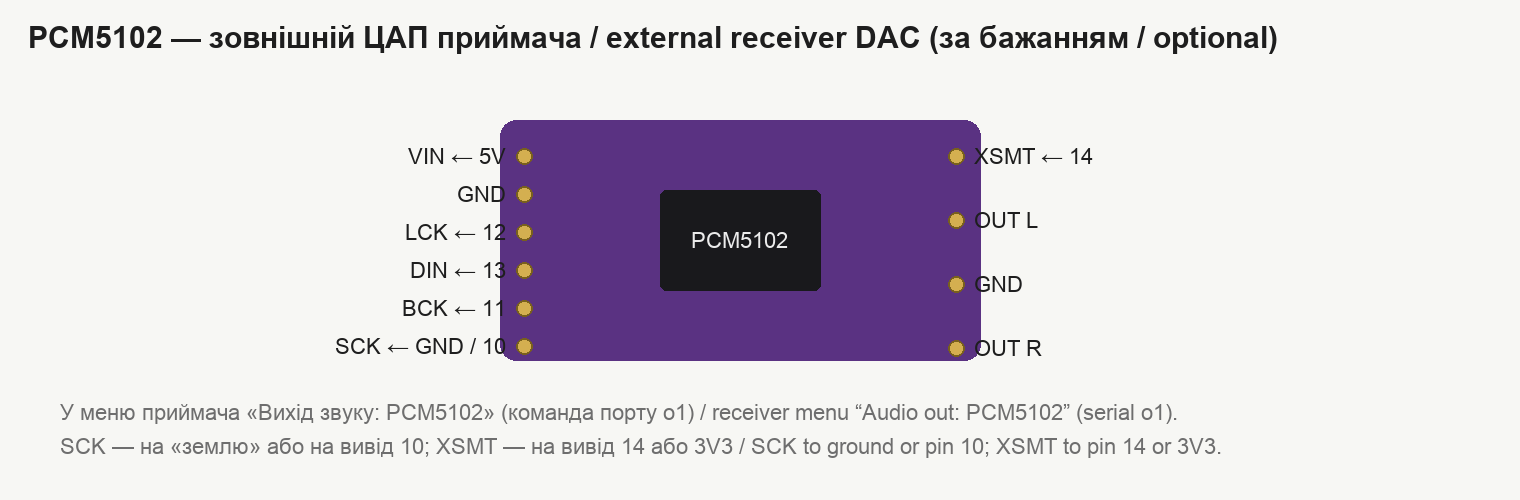
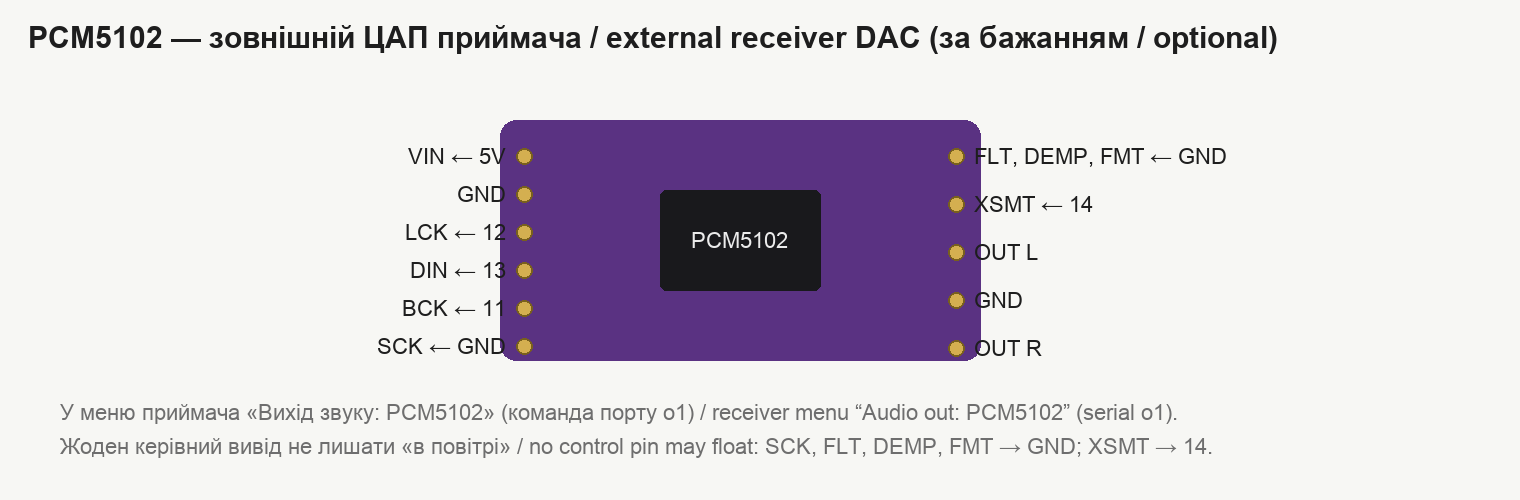
2.39: PCM5102 output as a plain 3-wire I2S (16 bit, no master clock), one-channel bug of 2.38 fixed, on-board I2S capture (n8=9); docs: module control pins must not float

diff --git a/hearlink/rxaudio.h b/hearlink/rxaudio.h
@@ -70,6 +70,7 @@ static void rxEarStart(bool on) {
   rxEarTest = on;
 }
 static volatile uint16_t rxVuL, rxVuR;     // наибольший отсчёт левого и правого канала с прошлого чтения экраном (стрелки)
+static volatile bool rxPattern;           // проверка n8=9: на выход идут постоянные числа (левый 0x5A01, правый 0xA5F3)
 static volatile uint32_t rxLimBusy;        // сколько отсчётов ограничитель убавлял звук (обнуляет проверка n8=8)
 static volatile float rxLimLow = 1;       // наименьшее усиление ограничителя за это время
 static volatile uint32_t rxInSamples, rxOutSamples;   // сколько отсчётов принято из эфира и отдано на выход (замер настоящих частот, n8=8)
@@ -294,11 +295,18 @@ static bool rxOutBegin() {
     sc.clk_cfg.clk_src = I2S_CLK_SRC_DEFAULT;
     sc.clk_cfg.mclk_multiple = I2S_MCLK_MULTIPLE_256;
     sc.slot_cfg = I2S_STD_PHILIPS_SLOT_DEFAULT_CONFIG(I2S_DATA_BIT_WIDTH_16BIT, I2S_SLOT_MODE_STEREO);
-    // Главный такт (SCK микросхемы) — на выводе 10: 256 × 32 кГц = 8,192 МГц. Владелец 08.10: «может сигнал sck не
-    // подключать на землю, а использовать полноценно?» — да: с настоящим тактом ЦАП не зависит от своего умножителя,
-    // которому при SCK «на земле» приходится восстанавливать такт из BCK (1,024 МГц — у самого нижнего края того, что
-    // он умеет). Если на модуле SCK уже замкнут на «землю» перемычкой, вывод 10 к нему НЕ подключать (замыкание выхода).
-    sc.gpio_cfg.mclk = (gpio_num_t)PIN_I2S_MCLK;
+    // SCK микросхемы — как в проекте радио владельца, где этот же модуль «работает напрямую с наушниками на полную и
+    // все идеально»: на «земле». Тогда ЦАП сам восстанавливает главный такт из BCK и сам его «чистит». В 2.35–2.37 на
+    // вывод 10 шёл главный такт с процессора (8,192 МГц с дробного делителя — его периоды неровные); это было главное
+    // отличие от радио, а звук хрипел (владелец 08.10: «звук рыпит и хрипит, сравни как в РАДИО»). Теперь вывод 10
+    // просто держится в нуле:
+    // это «земля» для SCK, провод можно оставить на нём или переставить на GND — разницы нет.
+    sc.gpio_cfg.mclk = I2S_GPIO_UNUSED;
+    pinMode(PIN_I2S_MCLK, OUTPUT);
+    digitalWrite(PIN_I2S_MCLK, LOW);
+    gpio_input_enable((gpio_num_t)PIN_I2S_MCLK);
+    // Слово канала — 16 тактов (BCK = 32 × 32 кГц = 1,024 МГц), как в радио. В 2.38 я поставил 32 такта на слово, не
+    // поправив длину сигнала каналов (ws_width осталась 16) — у владельца «работает только один канал». Возвращено.
     sc.gpio_cfg.bclk = (gpio_num_t)PIN_I2S_BCK;
     sc.gpio_cfg.ws = (gpio_num_t)PIN_I2S_WS;
     sc.gpio_cfg.dout = (gpio_num_t)PIN_I2S_DOUT;
@@ -799,6 +807,10 @@ static void rxTask(void *) {
       }
       out[2 * i] = (int16_t)(ol > 32767 ? 32767 : ol < -32768 ? -32768 : ol);
       out[2 * i + 1] = (int16_t)(orr > 32767 ? 32767 : orr < -32768 ? -32768 : orr);
+      if (rxPattern) {   // известные числа — чтобы на выводах было видно, какой бит где стоит
+        out[2 * i] = (int16_t)0x5A01;
+        out[2 * i + 1] = (int16_t)0xA5F3;
+      }
     }
     rxPeak = pk > 32767 ? 32767 : pk;
     if (pk > 300 && !(rxFlags & FLAG_MUTE)) rxSoundMs = millis() ? millis() : 1;   // −40 дБ и громче — «в эфире звук»

diff --git a/tools/gen_schema.py b/tools/gen_schema.py
@@ -409,10 +409,12 @@ def receiver_pcm5102():
         line([(300, y), (520, y)], c, 3 if c == ORG else 2.5)
     text(410, 212, 'звук цифрой (I2S)', 12, 'middle', ORG)
     text(410, 332, '«звук включён»', 12, 'middle', GRN)
-    pin(520, 385, 'SCK', 'l')
-    line([(520, 385), (470, 385)])
-    gnd(470, 385)
-    text(458, 379, 'на «землю»', 12, 'end', '#555')
+    for i, nm in enumerate(('SCK', 'FLT', 'DEMP', 'FMT')):
+        y = 375 + i * 22 if False else 372 + i * 11
+    pin(520, 380, 'SCK, FLT, DEMP, FMT', 'l')
+    line([(520, 380), (470, 380)])
+    gnd(470, 380)
+    text(458, 374, 'все четыре — на «землю»', 12, 'end', '#555')
     # выход ЦАП
     for y, nm in ((150, 'L'), (194, 'G'), (238, 'R')):
         pin(770, y, nm, 'r')
@@ -430,7 +432,7 @@ def receiver_pcm5102():
     notes = [
         ('Порядок', True),
         ('1. Наушники с выводов %s и %s (прежнее прямое подключение) снять — в этом режиме они молчат.' % (p['outp'], p['outn']), False),
-        ('2. Собрать шесть проводов по схеме, SCK модуля — на «землю». Проверить, потом подать питание.', False),
+        ('2. Собрать по схеме. SCK, FLT, DEMP, FMT модуля — на «землю» (GND или вывод G на гребёнке модуля). Проверить, подать питание.', False),
         ('3. В меню приёмника: «Вихід звуку» → PCM5102 (плата перезапустится). С порта — команда o1.', False),
         ('', False),
         ('XSMT — «звук включён»', True),
@@ -439,9 +441,9 @@ def receiver_pcm5102():
         ('• Если перемычка H3L на обороте модуля уже запаяна на «H» — провод от XSMT к выводу 14 НЕ ставить.', False),
         ('• Можно и без вывода 14: XSMT на 3V3 — звук включён всегда.', False),
         ('', False),
-        ('SCK и питание', True),
-        ('• SCK — на «землю»: ЦАП сам восстанавливает такт из BCK. Вместо «земли» можно на вывод 10 (такт 8,192 МГц, версия 2.35+).', False),
-        ('  «В воздухе» SCK оставлять нельзя. Если на модуле SCK уже замкнут на «землю» каплей припоя — вывод 10 к нему не подключать.', False),
+        ('SCK, FLT, DEMP, FMT и питание', True),
+        ('• SCK — на «землю»: ЦАП сам восстанавливает главный такт из BCK. Вместо GND годится вывод 10 приёмника — на нём ноль.', False),
+        ('• FLT, DEMP, FMT — на «землю», если перемычки H1L, H2L, H4L на обороте модуля не запаяны: иначе ЦАП хрипит и трещит.', False),
         ('• VIN: на плате модуля свой стабилизатор 3,3 В, поэтому питание — 5 В (вывод 5V платы приёмника).', False),
         ('', False),
         ('Выход', True),

diff --git a/tools/gen_modules.py b/tools/gen_modules.py
@@ -107,9 +107,9 @@ small('max', 'MAX97220 — підсилювач навушників / headphone
       ['Різницевий вхід: «+» на L+ і R+, «−» на L− і R−; у меню приймача «Виводи: протифаза».',
        'Differential input: “+” to L+ and R+, “−” to L− and R−; receiver menu “Pins: antiphase”.'], 'mod-max97220.png')
 small('pcm5102', 'PCM5102 — зовнішній ЦАП приймача / external receiver DAC (за бажанням / optional)', PURPLE, 'PCM5102',
-      ['VIN ← 5V', 'GND', 'LCK ← 12', 'DIN ← 13', 'BCK ← 11', 'SCK ← GND / 10'], ['XSMT ← 14', 'OUT L', 'GND', 'OUT R'],
+      ['VIN ← 5V', 'GND', 'LCK ← 12', 'DIN ← 13', 'BCK ← 11', 'SCK ← GND'], ['FLT, DEMP, FMT ← GND', 'XSMT ← 14', 'OUT L', 'GND', 'OUT R'],
       ['У меню приймача «Вихід звуку: PCM5102» (команда порту o1) / receiver menu “Audio out: PCM5102” (serial o1).',
-       'SCK — на «землю» або на вивід 10; XSMT — на вивід 14 або 3V3 / SCK to ground or pin 10; XSMT to pin 14 or 3V3.'], 'mod-pcm5102.png')
+       'Жоден керівний вивід не лишати «в повітрі» / no control pin may float: SCK, FLT, DEMP, FMT → GND; XSMT → 14.'], 'mod-pcm5102.png')
 small('pcm1808', 'PCM1808 — зовнішній АЦП передавача / external transmitter ADC (за бажанням, не перевірено / optional, untested)', PURPLE, 'PCM1808',
       ['LIN', 'GND', 'RIN'], ['5V / 3V3', 'GND', 'SCK ← IO43', 'BCK ← IO1', 'LRC ← IO2', 'OUT → IO40', 'FMT, MD → GND'],
       ['На передавачі: «Звук» → «Вхід: PCM1808» (команда порту a1). Поки він працює, передавач не друкує в порт.',

diff --git a/hearlink/config.h b/hearlink/config.h
@@ -2,7 +2,7 @@
 #pragma once
 #include <Arduino.h>
 
-#define FW_VERSION "2.37"
+#define FW_VERSION "2.39"
 #define SRATE 32000        // отсчётов звука в секунду
 #define FRAME 64        // отсчётов в одном куске звука (2 мс); пакет набирается из 1–6 кусков — см. качество
 #define MAGIC 0x4C48    // «HL» — по этим байтам свои пакеты отличаются от чужих

diff --git a/docs/uk/hardware.md b/docs/uk/hardware.md
@@ -71,7 +71,7 @@
 | Ручка: A (TRA), B (TRB), кнопка (PSH) | 5, 6, 7 |
 | Кнопки модуля CON, BAK (не використовуються, підтягнуті) | 15, 16 |
 | Вихід звуку «+», «−» (однобітний PDM) | 17, 18 |
-| PCM5102: SCK (головний такт 8,192 МГц), BCK, LCK, DIN, XSMT | 10, 11, 12, 13, 14 |
+| PCM5102: BCK, LCK, DIN, XSMT; SCK — на GND (або на вивід 10, там нуль) | 11, 12, 13, 14 |
 | Кольоровий світлодіод плати (WS2812) | 48 (у нових плат — 38) |
 
 ### Передавач на модулі ESP32-4848S040
@@ -118,39 +118,47 @@ C1 1 мкФ відділяє постійну складову, C2 4,7 нФ зр
 
 ## Зовнішній ЦАП PCM5102 на приймачі
 
-| Модуль PCM5102 | Плата приймача |
-|---|---|
-| VIN | 5V |
-| GND | GND |
-| SCK | **GND** (так само, як у більшості схем із цим модулем) або вивід **10** — головний такт 8,192 МГц (з версії 2.35) |
-| XSMT | **14** — «звук увімкнено» (з версії 2.36) або 3V3 |
-| BCK | 11 |
-| LCK (LRCK) | 12 |
-| DIN | 13 |
+Модуль — фіолетова плата GY-PCM5102 (PCM5102A, два стабілізатори 3,3 В, гніздо 3,5 мм; на виходах послідовно по
+470 Ом — тому навушники можна вмикати просто в гніздо).
+
+| Вивід модуля | Куди | Навіщо |
+|---|---|---|
+| VIN | 5V приймача | живлення (на модулі свої стабілізатори 3,3 В) |
+| GND | GND | |
+| BCK | **11** | такт бітів, 1,024 МГц |
+| LCK (LRCK) | **12** | такт каналів, 32 кГц |
+| DIN | **13** | дані I2S, 16 біт |
+| SCK | **GND** (або вивід 10 — приймач тримає на ньому нуль) | головний такт не подається: ЦАП відновлює його з BCK сам |
+| XSMT | **14** (або 3V3) | «звук увімкнено»: приймач тримає високий рівень, поки вихід працює |
+| FLT | **GND** | звичайний цифровий фільтр |
+| DEMP | **GND** | корекцію передспотворень вимкнено |
+| FMT | **GND** | формат I2S |
 
 ![Приймач із PCM5102](../skhema-priemnik-s3-pcm5102.png)
 
+**Головне — жоден керівний вивід мікросхеми не має «висіти в повітрі».** За схемою модуля чотири виводи (FLT, DEMP,
+XSMT, FMT) задаються перемичками H1L–H4L на звороті, і зазвичай модуль приходить із запаяними: H1L → L, H2L → L,
+H3L → H, H4L → L; SCK замкнений на «землю» краплею припою біля виводу. **Трапляються модулі з незапаяними
+перемичками** — тоді ці входи нічим не задані (внутрішніх підтяжок у мікросхеми немає), і ЦАП або мовчить (XSMT),
+або хрипить і тріщить (FMT, FLT, DEMP ловлять наведення від сусідніх ліній). Ліки без паяння — дроти з гребінки
+модуля: FLT, DEMP і FMT на сусідній вивід AGND (G) тієї ж гребінки, XSMT — на вивід 14 приймача. Або запаяти
+перемички, як у таблиці.
+
+| Перемичка | Вивід ЦАП | Що задає | Як має бути | Якщо інакше |
+|---|---|---|---|---|
+| H1L | FLT | цифровий фільтр | **L** | H — фільтр із малою затримкою; «в повітрі» — клацання |
+| H2L | DEMP | корекція передспотворень 44,1 кГц | **L** | H — зрізані верхи |
+| H3L | XSMT | приглушення | **H** | L або «в повітрі» — тиша |
+| H4L | FMT | формат даних | **L** (I2S) | H — інший формат: гучний шум замість звуку; «в повітрі» — хрип |
+
+- Якщо перемичку H3L запаяно на «H» — вивід 14 до XSMT **не під'єднувати**; якщо SCK на модулі вже замкнений на
+  «землю» — нікуди його більше не вести.
 - У меню приймача: «Вихід звуку» → **PCM5102** (плата перезапуститься); з порту — `o1`. Навушники з виводів 17/18
   у цьому режимі мовчать.
-- **SCK**: на «землю» (ЦАП відновлює такт із BCK сам і сам його «чистить» — це перевірений варіант) або на
-  вивід 10. Якщо на модулі SCK уже замкнений на «землю» краплею припою — вивід 10 до нього **не під'єднувати**.
-  «У повітрі» SCK лишати не можна: ЦАП мовчить.
-- **XSMT («звук увімкнено»).** На деяких модулях GY-PCM5102 перемички на звороті приходять незапаяними — тоді
-  XSMT «висить у повітрі» і ЦАП мовчить, хоча всі сигнали йдуть (перевірено 08.10.2026). Паяти не обов'язково:
-  з версії 2.36 приймач сам тримає на виводі **14** високий рівень, поки вихід працює, і знімає його перед сном —
-  досить дроту від виводу XSMT модуля до виводу 14 (або до 3V3). Якщо перемичку H3L уже запаяно на «H», вивід 14
-  до XSMT **не під'єднувати**.
-- Решта перемичок (кожна — три площадки: середня і «L» / «H») для надійності теж варто запаяти:
-
-  | Перемичка | Вивід ЦАП | Що задає | Як запаяти | Пояснення |
-  |---|---|---|---|---|
-  | H1L | FLT | цифровий фільтр | **L** | звичайний фільтр із лінійною фазою; H — із малою затримкою |
-  | H2L | DEMP | корекція передспотворень | **L** | вимкнено; H — лише для старих записів 44,1 кГц |
-  | H3L | XSMT | приглушення | **H** | звук увімкнено; на L або «в повітрі» — тиша |
-  | H4L | FMT | формат даних | **L** | I2S (так шле приймач); H — інший формат, звук буде спотворений |
-- Перевірка без приладів: команда порту `n8=7` друкує, чи «тремтять» виводи 10–13 (частка одиниць близько 50 %).
-  На передавачі в списку приймачів — «вихід живий».
-- Навушники можна вмикати прямо в гніздо модуля; більший запас гучності дає підсилювач MAX97220 після ЦАП.
+- Що саме йде на ЦАП, приймач показує сам: `n8=7` — чи «тремтять» BCK, LRCK і дані, рівні SCK та XSMT; `n8=9` —
+  знімає сигнали з виводів і друкує біти одного слова (перевірка формату).
+- Документація: [PCM5102A, Texas Instruments](https://www.ti.com/lit/ds/symlink/pcm5102a.pdf) — режим без головного
+  такту (розділ 9.3.5.3, таблиця 11: 32 кГц при BCK 1,024 або 2,048 МГц), вхід XSMT (9.3.3).
 
 ## Два способи під'єднати навушники
 

diff --git a/docs/en/hardware.md b/docs/en/hardware.md
@@ -73,7 +73,7 @@ easy to find by name: “ESP32-4848S040”, “SH1106 1.3 OLED EC11”, “MAX97
 | Knob: A (TRA), B (TRB), button (PSH) | 5, 6, 7 |
 | Module buttons CON, BAK (not used, pulled up) | 15, 16 |
 | Audio output "+", "−" (one-bit PDM) | 17, 18 |
-| PCM5102: SCK (master clock 8.192 MHz), BCK, LCK, DIN, XSMT | 10, 11, 12, 13, 14 |
+| PCM5102: BCK, LCK, DIN, XSMT; SCK — to GND (or to pin 10, held low) | 11, 12, 13, 14 |
 | On-board RGB LED (WS2812) | 48 (38 on newer boards) |
 
 ### Transmitter on the ESP32-4848S040 module
@@ -120,39 +120,47 @@ The schematics are drawn by `tools/gen_schema.py`; they are also available as SV
 
 ## External PCM5102 DAC on the receiver
 
-| PCM5102 module | Receiver board |
-|---|---|
-| VIN | 5V |
-| GND | GND |
-| SCK | **GND** (as in most circuits with this module) or pin **10** — master clock 8.192 MHz (since version 2.35) |
-| XSMT | **14** — “sound on” (since version 2.36) or 3V3 |
-| BCK | 11 |
-| LCK (LRCK) | 12 |
-| DIN | 13 |
+The module is the purple GY-PCM5102 board (PCM5102A, two 3.3 V regulators, a 3.5 mm jack; 470 Ω in series with each
+output — which is why headphones can be plugged straight into the jack).
+
+| Module pin | Goes to | Purpose |
+|---|---|---|
+| VIN | receiver 5V | power (the module has its own 3.3 V regulators) |
+| GND | GND | |
+| BCK | **11** | bit clock, 1.024 MHz |
+| LCK (LRCK) | **12** | word clock, 32 kHz |
+| DIN | **13** | I2S data, 16 bit |
+| SCK | **GND** (or pin 10 — the receiver holds it low) | no master clock is supplied: the DAC recovers it from BCK |
+| XSMT | **14** (or 3V3) | “sound on”: the receiver keeps it high while the output is running |
+| FLT | **GND** | normal digital filter |
+| DEMP | **GND** | de-emphasis off |
+| FMT | **GND** | I2S format |
 
 ![Receiver with PCM5102](../skhema-priemnik-s3-pcm5102.png)
 
+**The key point: no control pin of the chip may be left floating.** According to the module schematic, four pins
+(FLT, DEMP, XSMT, FMT) are set by the solder jumpers H1L–H4L on the back, and the module normally ships with them
+closed: H1L → L, H2L → L, H3L → H, H4L → L; SCK is shorted to ground with a solder blob next to the pin. **Some
+modules ship with the jumpers open** — then these inputs are undefined (the chip has no internal pull resistors) and
+the DAC is either silent (XSMT) or crackles and rasps (FMT, FLT, DEMP pick up noise from the neighbouring lines).
+The cure without soldering is jumper wires on the module header: FLT, DEMP and FMT to the adjacent AGND (G) pin of
+the same header, XSMT to receiver pin 14. Or close the jumpers as in the table.
+
+| Jumper | DAC pin | Sets | Must be | Otherwise |
+|---|---|---|---|---|
+| H1L | FLT | digital filter | **L** | H — low-latency filter; floating — clicks |
+| H2L | DEMP | 44.1 kHz de-emphasis | **L** | H — treble is cut |
+| H3L | XSMT | soft mute | **H** | L or floating — silence |
+| H4L | FMT | data format | **L** (I2S) | H — another format: loud noise instead of sound; floating — rasping |
+
+- If the H3L jumper is bridged to “H”, do **not** connect pin 14 to XSMT; if SCK is already shorted to ground on the
+  module, do not wire it anywhere else.
 - In the receiver menu: «Вихід звуку» (Audio out) → **PCM5102** (the board restarts); from the serial port — `o1`.
   Headphones on pins 17/18 are silent in this mode.
-- **SCK**: to ground (the DAC recovers the clock from BCK and cleans it by itself — this is the proven option) or
-  to pin 10. If SCK on your module is already shorted to ground with a solder blob, do **not** connect pin 10 to
-  it. SCK must never be left floating: the DAC stays silent.
-- **XSMT (“sound on”).** Some GY-PCM5102 modules ship with the solder jumpers on the back open — then XSMT floats
-  and the DAC is silent although every signal is present (verified on 2026-10-08). Soldering is not required:
-  since version 2.36 the receiver itself keeps pin **14** high while the output is running and drops it before
-  sleep — a wire from the module's XSMT pin to pin 14 (or to 3V3) is enough. If the H3L jumper is already bridged
-  to “H”, do **not** connect pin 14 to XSMT.
-- The other jumpers (each has three pads: the middle one and “L” / “H”) are worth closing too, for reliability:
-
-  | Jumper | DAC pin | Sets | Bridge to | Notes |
-  |---|---|---|---|---|
-  | H1L | FLT | digital filter | **L** | normal linear-phase filter; H — low-latency filter |
-  | H2L | DEMP | de-emphasis | **L** | off; H — only for old 44.1 kHz recordings |
-  | H3L | XSMT | soft mute | **H** | sound on; at L or floating — silence |
-  | H4L | FMT | data format | **L** | I2S (what the receiver sends); H — another format, the sound will be distorted |
-- A check without instruments: the serial command `n8=7` prints whether pins 10–13 are toggling (share of ones
-  about 50 %). On the transmitter the receiver list shows “вихід живий” (output alive).
-- Headphones can be plugged straight into the module's jack; a MAX97220 amplifier after the DAC gives more volume headroom.
+- The receiver shows what actually goes to the DAC: `n8=7` — whether BCK, LRCK and data are toggling, the SCK and
+  XSMT levels; `n8=9` — samples the pins and prints the bits of one word (a format check).
+- Documentation: [PCM5102A, Texas Instruments](https://www.ti.com/lit/ds/symlink/pcm5102a.pdf) — operation without
+  a master clock (section 9.3.5.3, table 11: 32 kHz with BCK 1.024 or 2.048 MHz), the XSMT input (9.3.3).
 
 ## Two ways to connect headphones
 

diff --git a/docs/uk/troubleshooting.md b/docs/uk/troubleshooting.md
@@ -43,6 +43,7 @@
 | тихо навіть на 100 % | навушники напряму мають малу віддачу; ввімкнена «Межа гучн.» | перевірити «Межа гучн.»; підсилювач навушників; навушники з більшою чутливістю |
 | звук лише в одному вусі / «навиворіт» | «Виводи» не відповідають під'єднанню; баланс | навушники напряму — «2 канали»; «Баланс» — «рівно»; «Навушники → тест» покаже, де ліве й праве |
 | PCM5102 мовчить | **XSMT модуля «в повітрі»** (перемичка H3L не запаяна): дріт від XSMT до виводу 14 приймача або до 3V3; не вибрано вихід PCM5102; SCK «у повітрі»; переплутані BCK/LCK/DIN | меню «Вихід звуку: PCM5102»; SCK на вивід 10 або на «землю»; перемичка 3 на «H»; `n8=7` покаже, чи йдуть такти — див. [Обладнання](hardware.md#зовнішній-цап-pcm5102-на-приймачі) |
+| PCM5102 хрипить, тріщить, «перевантажує» на гучному | керівні виводи модуля FLT, DEMP, FMT «у повітрі» (перемички на звороті не запаяні) | з'єднати FLT, DEMP, FMT із GND (вивід G на гребінці модуля) або запаяти H1L, H2L, H4L на «L»; `n8=9` покаже, що сам сигнал до ЦАП правильний |
 | шум у тиші | однобітний вихід без фільтра; живлення | RC-фільтр за схемою; інший блок/повербанк; `X` з передавача — перевірка, звідки шум |
 | клацання при ввімкненні/засинанні | немає розділових конденсаторів | зібрати вихід за схемою |
 | ручка крутить «не туди» | переплутані виводи A і B | поміняти місцями 5 і 6 |

diff --git a/docs/en/troubleshooting.md b/docs/en/troubleshooting.md
@@ -43,6 +43,7 @@
 | quiet even at 100 % | directly connected headphones have low output; «Межа гучн.» (Volume limit) is turned on | check "Volume limit"; a headphone amplifier; headphones with a higher sensitivity |
 | sound in one ear only / "inside out" | «Виводи» (Pins) does not match the wiring; balance | headphones directly — «2 канали» (2 channels); «Баланс» (Balance) — «рівно» (center); «Навушники → тест» (Headphones → test) shows which is left and which is right |
 | PCM5102 is silent | **the module's XSMT is floating** (the H3L jumper is open): a wire from XSMT to receiver pin 14 or to 3V3; the PCM5102 output is not selected; SCK is floating; BCK/LCK/DIN are swapped | menu «Вихід звуку: PCM5102»; SCK to pin 10 or to ground; jumper 3 to “H”; `n8=7` shows whether the clocks are running — see [Hardware](hardware.md#external-pcm5102-dac-on-the-receiver) |
+| PCM5102 rasps, crackles, sounds “overloaded” on loud parts | the module's control pins FLT, DEMP, FMT are floating (solder jumpers on the back are open) | connect FLT, DEMP, FMT to GND (the G pin of the module header) or bridge H1L, H2L, H4L to “L”; `n8=9` shows that the signal to the DAC itself is correct |
 | noise in silence | a one-bit output without a filter; power | an RC filter as in the schematic; another supply/power bank; `X` from the transmitter — a check of where the noise comes from |
 | clicks at power-on / when falling asleep | no coupling capacitors | build the output as in the schematic |
 | the knob turns "the wrong way" | pins A and B are swapped | swap 5 and 6 |

diff --git a/CHANGELOG.md b/CHANGELOG.md
@@ -1,5 +1,15 @@
 # Changelog / Історія версій
 
+## 2.39 — 2026-10-08
+- EN: PCM5102 output is now exactly the classic 3-wire connection: 16-bit I2S, BCK 1.024 MHz, no master clock (pin 10
+  is held low and can serve as ground for SCK). 2.38 had a bug — only one channel played (32-bit slots with a 16-bit
+  word-clock width) — fixed. New check `n8=9`: the receiver samples its own I2S pins and prints the bits.
+  Docs: the module's control pins FLT, DEMP, FMT must not float.
+- UK: вихід на PCM5102 тепер точно класичне трипровідне під'єднання: I2S 16 біт, BCK 1,024 МГц, без головного такту
+  (вивід 10 тримається в нулі й може бути «землею» для SCK). У 2.38 була помилка — грав один канал — виправлено.
+  Нова перевірка `n8=9`: приймач сам знімає свої сигнали I2S і друкує біти. Опис: керівні виводи модуля FLT, DEMP,
+  FMT не можна лишати «в повітрі».
+
 ## 2.37 — 2026-10-08
 - EN: receiver: a look-ahead limiter (1.5 ms) replaces the instant one — no more clipped peaks and “overloaded”
   bass at higher volume or with “Clarity” on (clearly audible with the PCM5102 DAC). `n8=8` also reports how

diff --git a/docs/uk/commands.md b/docs/uk/commands.md
@@ -102,6 +102,7 @@
 | `n8=5` | натиснути на секунду, не затримуючи головний цикл |
 | `n8=6` | те саме через 30 с — перевірка пробудження зі сну (уві сні порт не слухає) |
 | `n8=7` | що на виводах виходу звуку: частка одиниць і перепади на 10 (SCK), 11 (BCK), 12 (LRCK), 13 (дані), 17, 18 (PDM); рівень XSMT (вивід 14) |
+| `n8=9` | «логічний аналізатор»: знімає BCK, LRCK і дані з виводів (ЦАП на цей час приглушено, на вихід ідуть відомі числа 0x5A01 / 0xA5F3) і друкує біти одного слова — видно формат і зсув |
 | `n8=8` | справжні частоти за час від попереднього такого виклику: звук з ефіру (годинник передавача) і вихід (свій годинник), у відліках за секунду та ppm |
 | `n8=2` | лишити вивід «брудним», як після сну в старих версіях (перевірка очищення при запуску) |
 

diff --git a/docs/en/commands.md b/docs/en/commands.md
@@ -102,6 +102,7 @@ The pin shorts itself to ground — exactly what the button or the encoder conta
 | `n8=5` | press for a second without holding up the main loop |
 | `n8=6` | the same after 30 s — a check of waking from sleep (in sleep the port is not listened to) |
 | `n8=7` | what is on the audio output pins: share of ones and edges on 10 (SCK), 11 (BCK), 12 (LRCK), 13 (data), 17, 18 (PDM); the XSMT level (pin 14) |
+| `n8=9` | “logic analyzer”: samples BCK, LRCK and data on the pins (the DAC is muted meanwhile, known numbers 0x5A01 / 0xA5F3 go to the output) and prints the bits of one word — the format and bit shift become visible |
 | `n8=8` | true rates since the previous such call: audio from the air (transmitter clock) and the output (own clock), in samples per second and ppm |
 | `n8=2` | leave the pin "dirty", as after sleep in old versions (a check of the cleanup at startup) |
 
